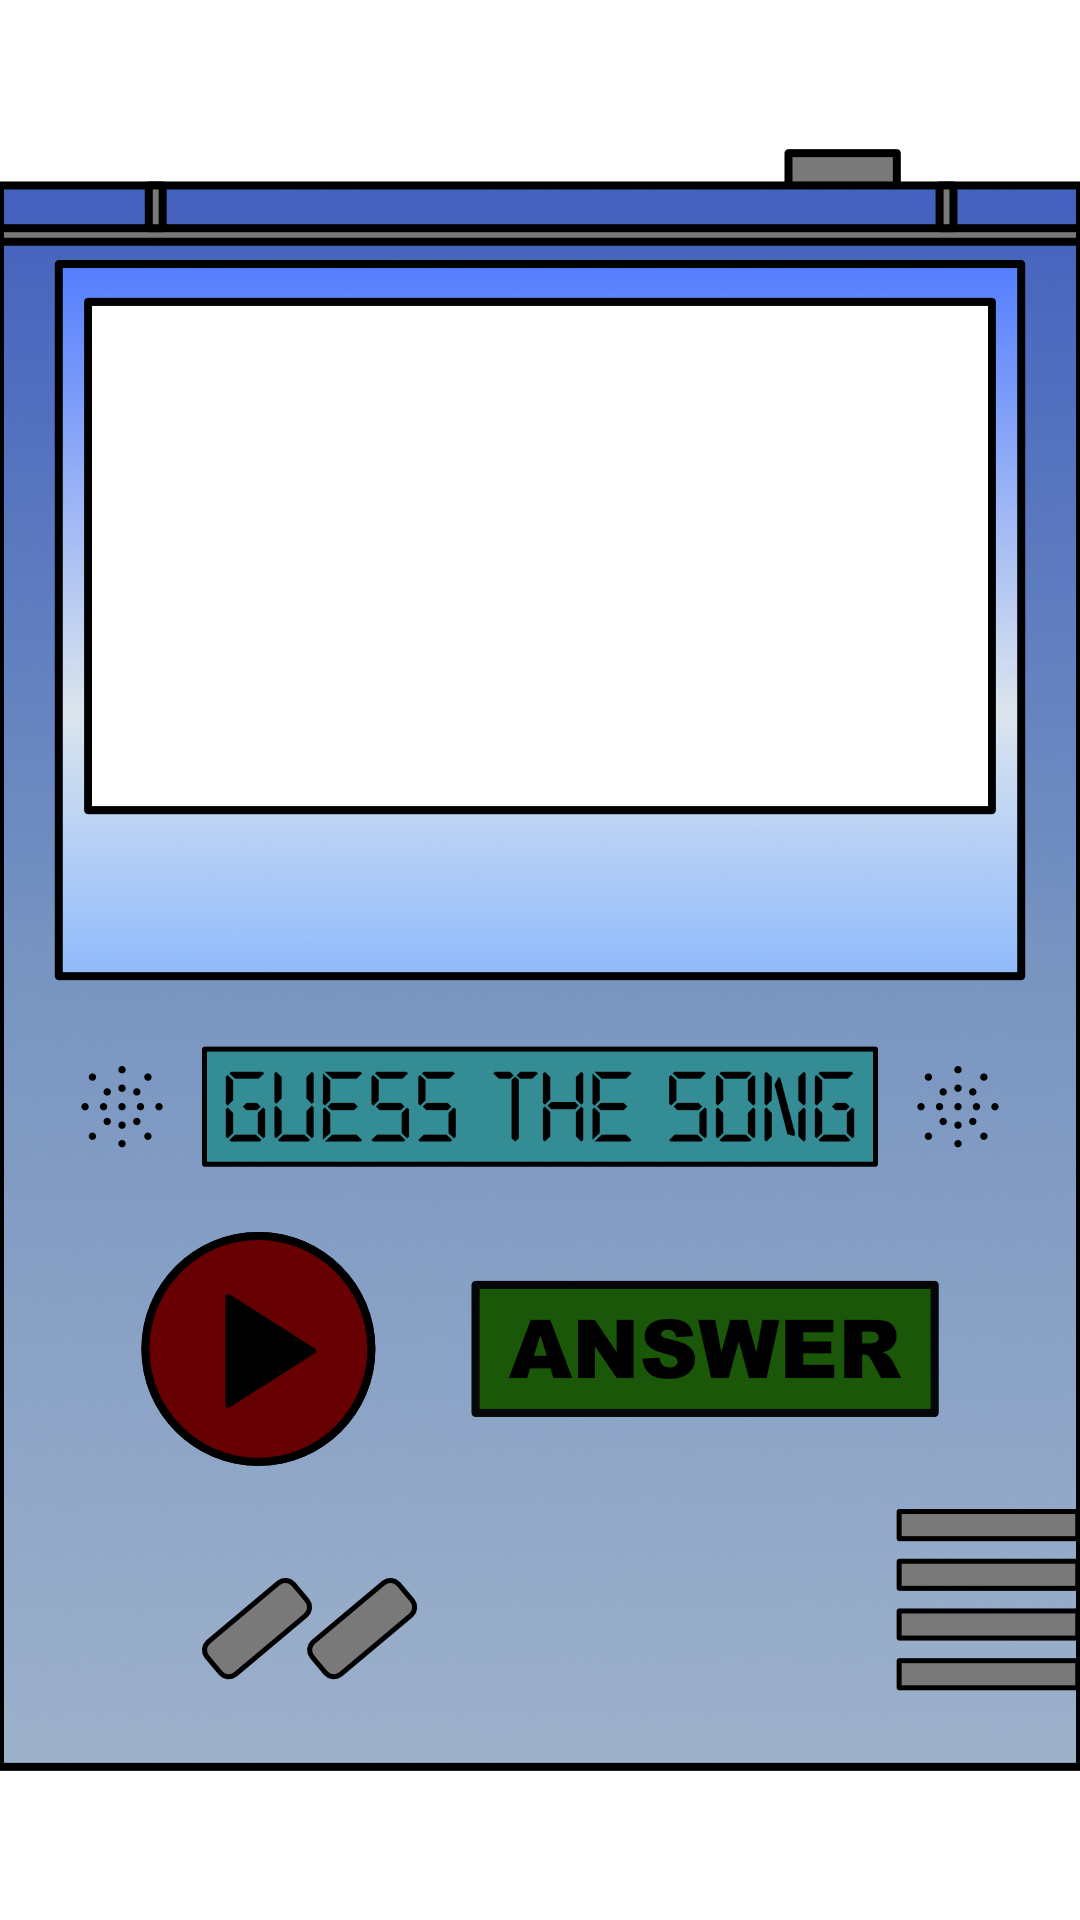
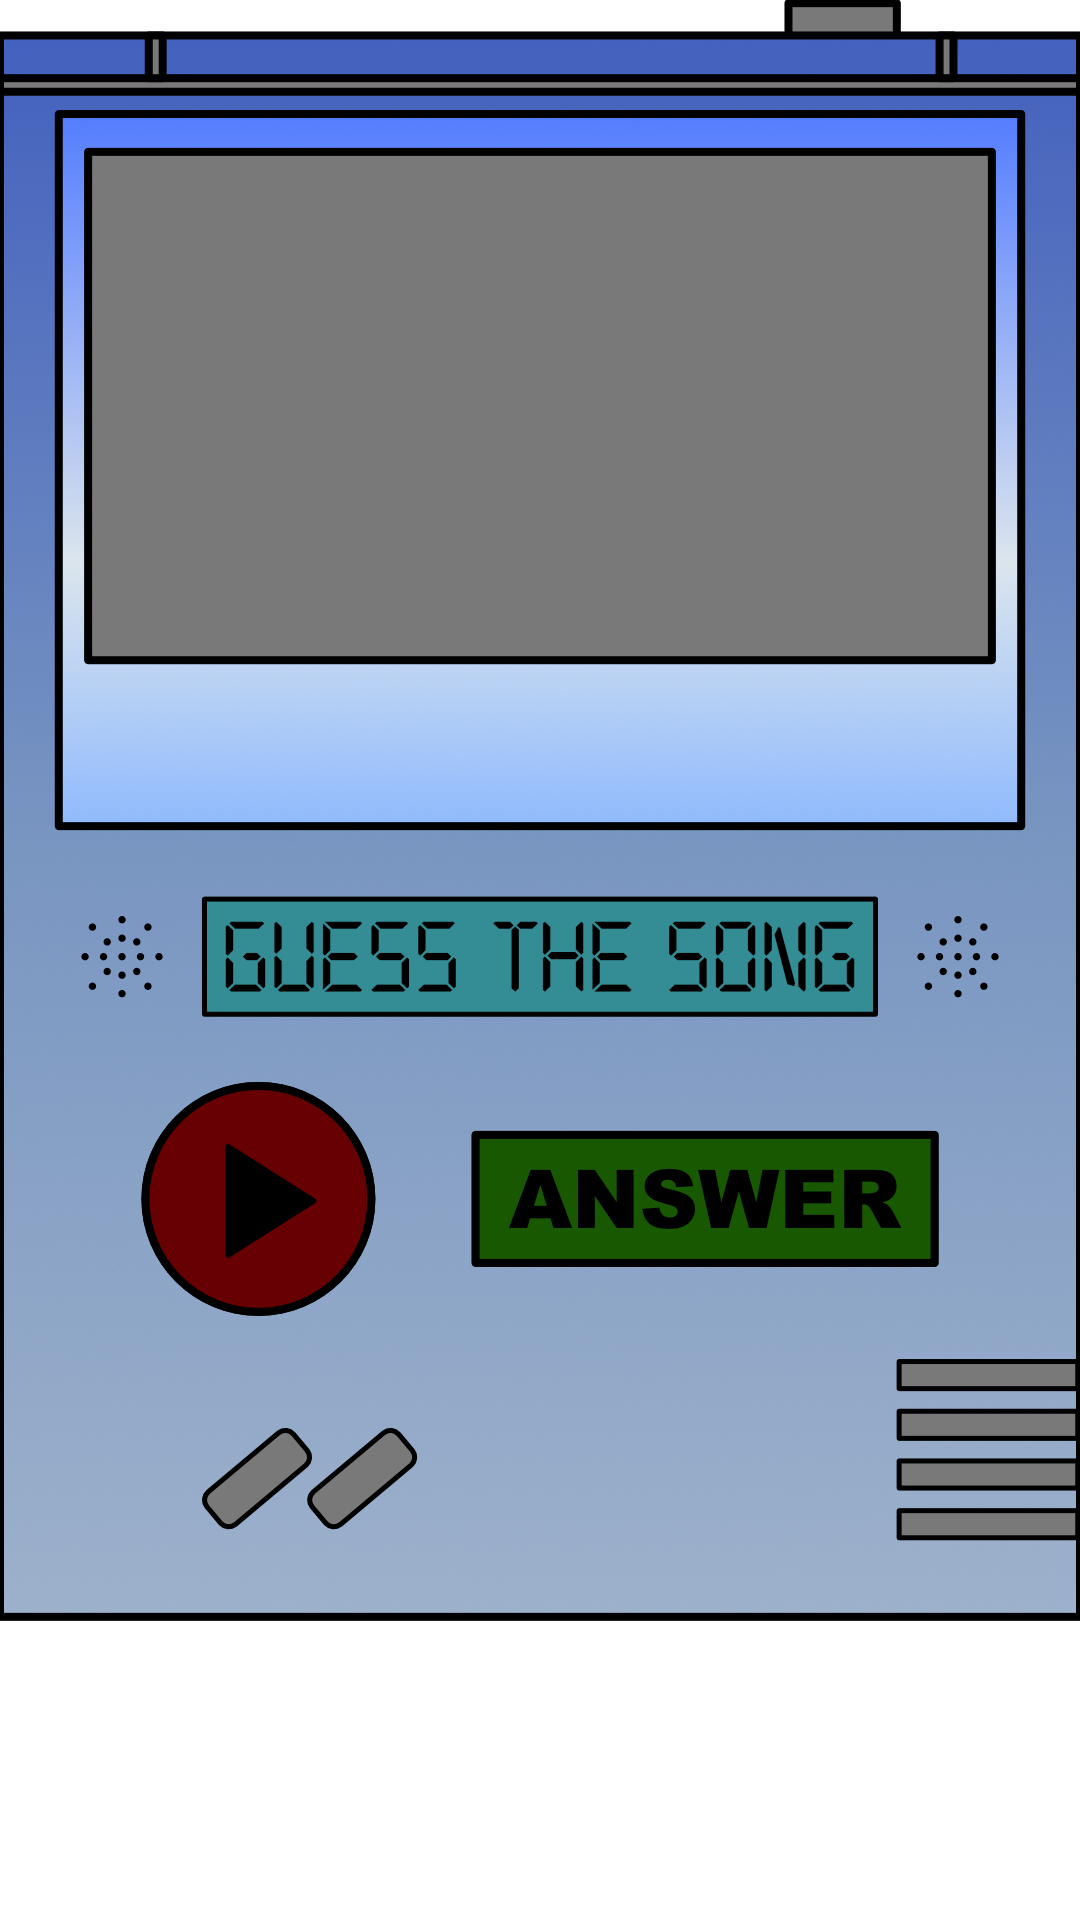
design fix

diff --git a/backgroundTest.html b/backgroundTest.html
@@ -28,14 +28,14 @@
            .playBtn {
                 position: absolute;
                 width: 100%;
-                margin-top: 113.3%;
+                margin-top: 99.9%;
                 margin-left: 12.1%;
 
            }
            .ansBtn {
                 position: absolute;
                 width: 100%;
-                margin-top: 118.3%;
+                margin-top: 104.5%;
                 margin-left: 43.2%;
 
            }
@@ -44,6 +44,7 @@
     </head>
     
     <body >
+        <span>update 29Aug22 01:02</span>
         <div class="container">
 
             <div class="box">
@@ -63,7 +64,7 @@
             
 
         </div>
-        <span>update 28Aug22 14:08</span>
+       
         <script type="text/javascript" src="guesstest.js"></script> 
 
     </body>
